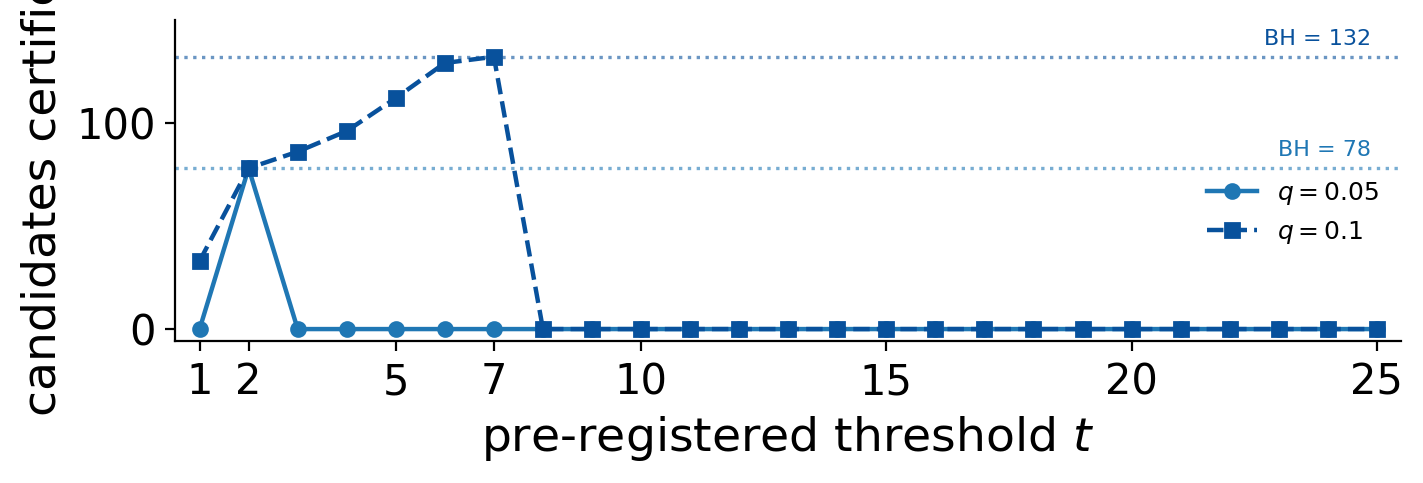
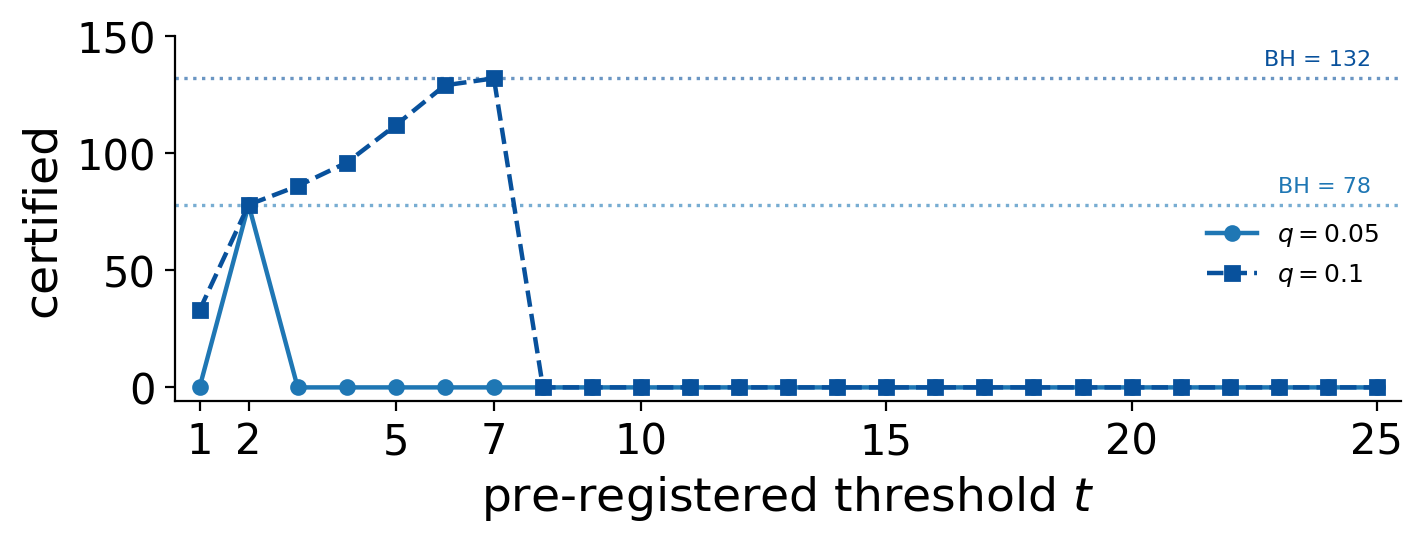
paper: clear the last verification findings
Verification returned 8/10, would accept, no blockers. Two of the nine findings
were reviewer-visible and both are fixed:

The attainment figure's y-axis label was clipped to "candidates certifie". I had
inspected that figure at 3.4 inches, then shortened it to 2.3 to fit the body,
and never looked again -- trusting an inspection of a different figure. Label
shortened and height raised; re-inspected.

"Interpolating that curve" lost its antecedent when the exchangeability section
was compressed; it now names the figure, and says the 0.295 and 0.319 are both
q=0.10 figures, which the section never stated.

Harness, all code hygiene:
- calibration_sizing's docstring carried the exact unit error just removed from
  the paper: 6,832 called calibration points (it is n_cal+1) and 905 called the
  calibration set (904 is).
- The attainment test I added last round also could not fail: worst_case_null
  places mass where e equals its envelope, so attaining the envelope sum is an
  identity of its construction (4.3e-14 over 20,000 draws against a 1e-9
  tolerance). It now checks the falsifiable half -- whether that law lies in the
  null family at all, which is what makes the bound a supremum.
- check_audit_framing's comment stated e-BH's firing condition as if it were
  validity, contradicting the corrected paper; and its decomposition-sums-to-one
  assertion is algebra. Replaced with the tier's share of the candidate pool.
[…]

diff --git a/scripts/check_audit_framing.py b/scripts/check_audit_framing.py
@@ -102,8 +102,10 @@ def main() -> int:
     print(f"  shift {gap_all / sd:.3f} sd total; tier contributes {100 * share:.1f}%, "
           f"the other {m - n_hi} contribute {100 * rest_share:.1f}%; "
           f"residual gap {gap_rest / sd:.3f} sd")
-    if abs(share + rest_share - 1.0) > 1e-9:
-        fails.append("shift decomposition does not sum to the total")
+    # share + rest_share == 1 is algebra, not a test. The claim with content is that the tier
+    # contributes the reported fraction while holding a tenth of the candidates.
+    if not (0.09 <= n_hi / m <= 0.10):
+        fails.append(f"tier is {n_hi}/{m} of candidates, not the ~10% the decomposition assumes")
     if not (0.915 <= share <= 0.925):
         fails.append(f"tier share of the shift is {share:.4f}, expected ~0.92")
     if abs(gap_all / sd - 0.600) > 0.005:
@@ -118,10 +120,10 @@ def main() -> int:
         fails.append(f"residual-shift FDR is {at_res:.3f}, not below nominal")
 
     # 4 -- randomised calibrators escape the deterministic ceiling
-    # Firing (n1/t)/pi on {R<=t} with probability pi is valid exactly when
-    # pi <= q*N(t)*n1/(m*t), which is also the condition for e-BH to take all N(t) when it
-    # fires; expected yield is pi*N(t). Optimise over t rather than fixing a few c, since a
-    # narrow sweep is how the opposite (and false) claim survived here.
+    # The calibrator is valid for EVERY firing probability, since pi cancels in the
+    # expectation. pi <= q*N(t)*n1/(m*t) is the separate condition for e-BH to take all of
+    # N(t) when it fires; expected yield is then pi*N(t). Optimise over t rather than fixing
+    # a few c, since a narrow sweep is how the opposite (and false) claim survived here.
     print("  randomised calibrator, firing probability optimised:")
     for q in QS:
         bh_q = _bh(p, q)

diff --git a/scripts/check_calibrator_validity.py b/scripts/check_calibrator_validity.py
@@ -122,12 +122,21 @@ def main() -> int:
     # asserting it proves nothing. What is worth checking is that the law it returns actually
     # attains the envelope bound -- i.e. that the bound is a supremum, not merely an upper
     # bound, which is the claim the paper makes.
+    # worst_case_null puts mass where e equals its envelope, so attaining the envelope sum is
+    # an identity of its own construction and cannot fail. The falsifiable half is whether the
+    # law it returns is IN the null family -- if it is not, the "supremum" is over the wrong
+    # set and the bound means nothing.
     q_law = worst_case_null(e, n1)
     attained = float(q_law @ e)
     claimed = sup_expectation(e, n1)
-    print(f"    worst-case law attains {attained:.6f} against the bound {claimed:.6f}")
-    if abs(attained - claimed) > 1e-9:
-        failures.append(f"envelope bound {claimed:.6f} is not attained (best {attained:.6f})")
+    cdf = np.cumsum(q_law)
+    slack = float((cdf - np.arange(1, n1 + 1) / n1).max())
+    print(f"    worst-case law attains {attained:.6f} (bound {claimed:.6f}); "
+          f"dominance slack {slack:+.2e}, mass {q_law.sum():.6f}")
+    if slack > 1e-12:
+        failures.append(f"worst-case law leaves the null family: P(R<=t) exceeds t/n by {slack:.2e}")
+    if abs(q_law.sum() - 1.0) > 1e-9:
+        failures.append(f"worst-case law is not a probability: mass {q_law.sum():.6f}")
 
     # The envelope sum is asserted to BE the supremum of E[e(R)] over the null family
     # {P : P(R <= t) <= t/n for all t}. Comparing sup_expectation(a) with

diff --git a/scripts/verify_claims.py b/scripts/verify_claims.py
@@ -238,12 +238,12 @@ CLAIMS = [
           "class_optimum/n_feasible_t/0.1", 7),
 
     # -- the two design levers, and the coincidence we flag as a caution ---------
-    Claim("BH's largest accepted rank at q=0.05 = 2", "calibrator_comparison.json",
+    Claim("BH's largest rejected rank at q=0.05 = 2", "calibrator_comparison.json",
           "bh_cutoff/0.05/largest_rejected_rank", 2,
           note="equals the threshold t that reproduces BH's count; the paper flags this"),
-    Claim("BH's largest accepted rank at q=0.10 = 7", "calibrator_comparison.json",
+    Claim("BH's largest rejected rank at q=0.10 = 7", "calibrator_comparison.json",
           "bh_cutoff/0.1/largest_rejected_rank", 7),
-    Claim("BH's largest accepted rank at q=0.20 = 19", "calibrator_comparison.json",
+    Claim("BH's largest rejected rank at q=0.20 = 19", "calibrator_comparison.json",
           "bh_cutoff/0.2/largest_rejected_rank", 19),
     Claim("exactly one t in 1..25 certifies anything at q=0.05", "calibrator_comparison.json",
           "n_t_certifying_at_0.05", 1),

diff --git a/scripts/calibration_sizing.py b/scripts/calibration_sizing.py
@@ -20,10 +20,10 @@ procedure you are willing to use. The H_m factor is the whole price of BY over a
 calibrator: about eightfold here, and it appears directly as a multiple on the number of
 negatives you must ship.
 
-Applied to the CM4AI map, the requirement must be minimised over t: at q = 0.05 BY needs
-6,832 calibration points before any threshold becomes feasible, attained at t = 2. Evaluating
+Applied to the CM4AI map, the requirement must be minimised over t: at q = 0.05 BY needs a
+calibration set of 6,831 (n_cal+1 = 6,832) before any threshold becomes feasible, attained at t = 2. Evaluating
 only at t = 1, where the map supplies 33 candidates, gives 8,074 and overstates the requirement
-by 18%. The map shipped 1,788 decoys, of which 905 became the calibration set.
+by 18%. The map shipped 1,788 decoys, of which 904 became the calibration set.
 
 The estimate is optimistic and should be read as a lower bound. It holds phi fixed while
 n_cal grows, but a candidate's rank is its position among the calibration scores, so enlarging

diff --git a/scripts/make_paper_figs.py b/scripts/make_paper_figs.py
@@ -310,7 +310,7 @@ def fig6_attainment():
     rank = np.rint(p * n1).astype(int)
 
     ts = list(range(1, 26))
-    fig, ax = plt.subplots(figsize=(7.0, 2.3), constrained_layout=True)
+    fig, ax = plt.subplots(figsize=(7.0, 2.6), constrained_layout=True)
     for q, colour, mk, ls, bh in ((0.05, BLUE, "o", "-", 78), (0.10, DARK, "s", "--", 132)):
         y = []
         for tt in ts:
@@ -321,7 +321,7 @@ def fig6_attainment():
         ax.annotate(f"BH = {bh}", xy=(25, bh), xytext=(-2, 3), textcoords="offset points",
                     ha="right", va="bottom", fontsize=8, color=colour)
     ax.set_xlabel(r"pre-registered threshold $t$")
-    ax.set_ylabel("candidates certified")
+    ax.set_ylabel("certified")
     ax.set_xlim(0.5, 25.5)
     ax.set_ylim(-6, 150)
     ax.set_xticks([1, 2, 5, 7, 10, 15, 20, 25])
